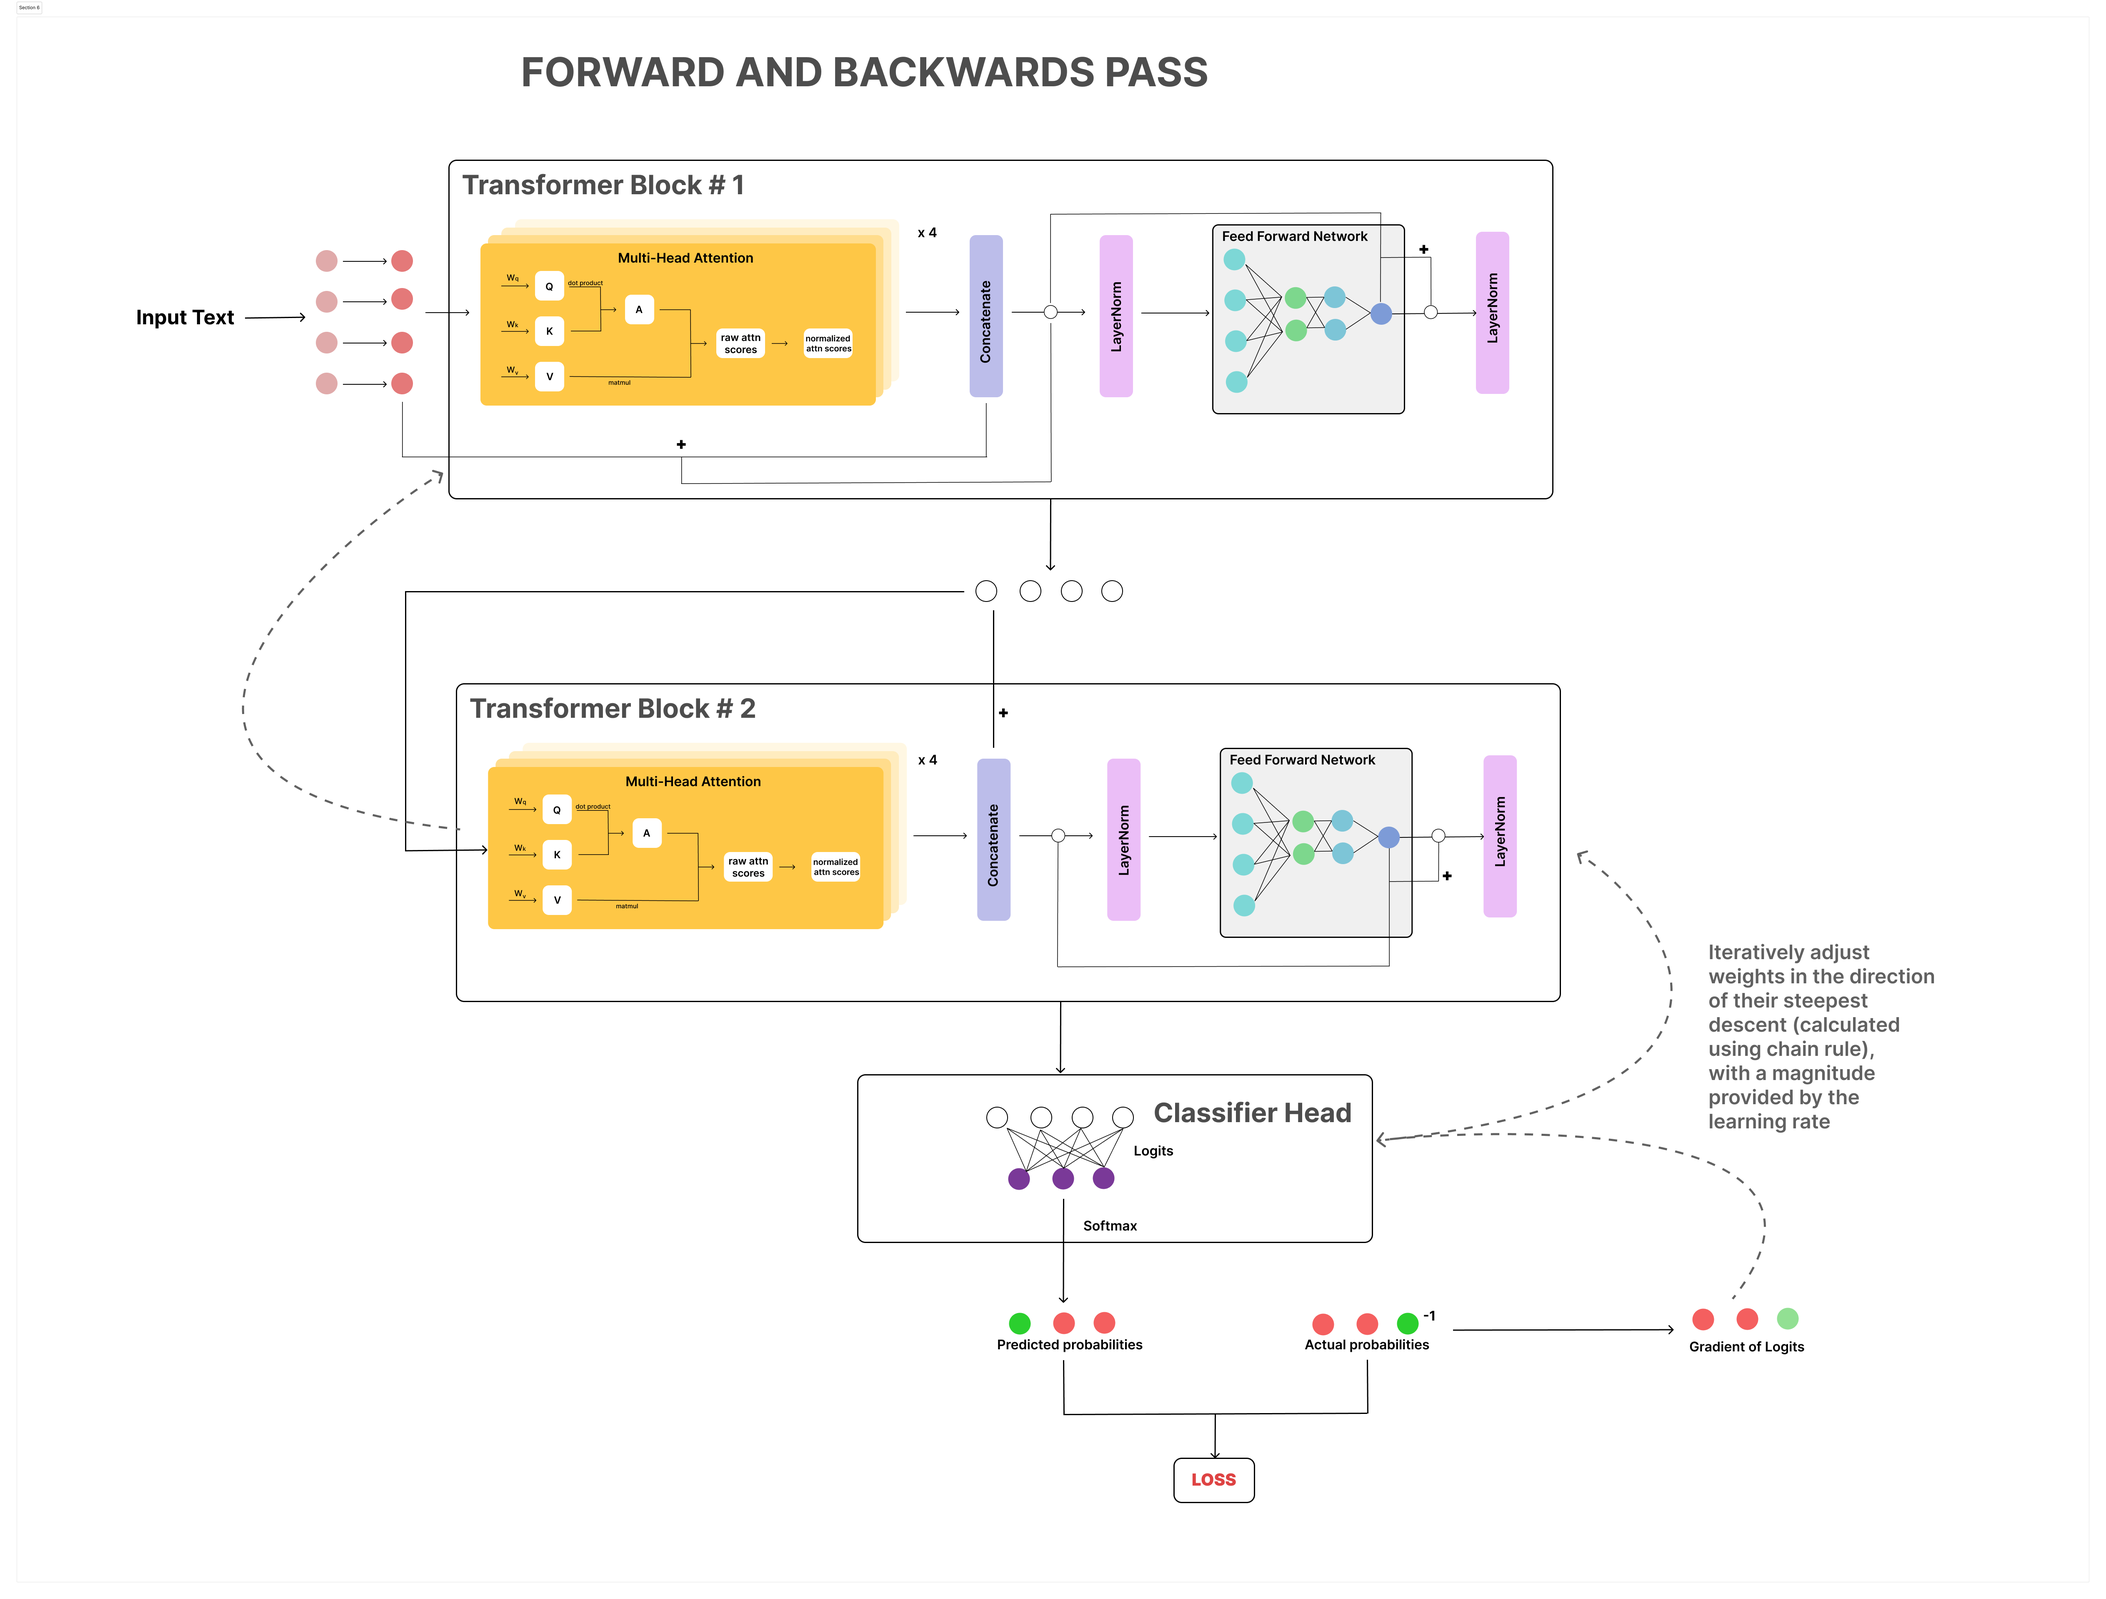
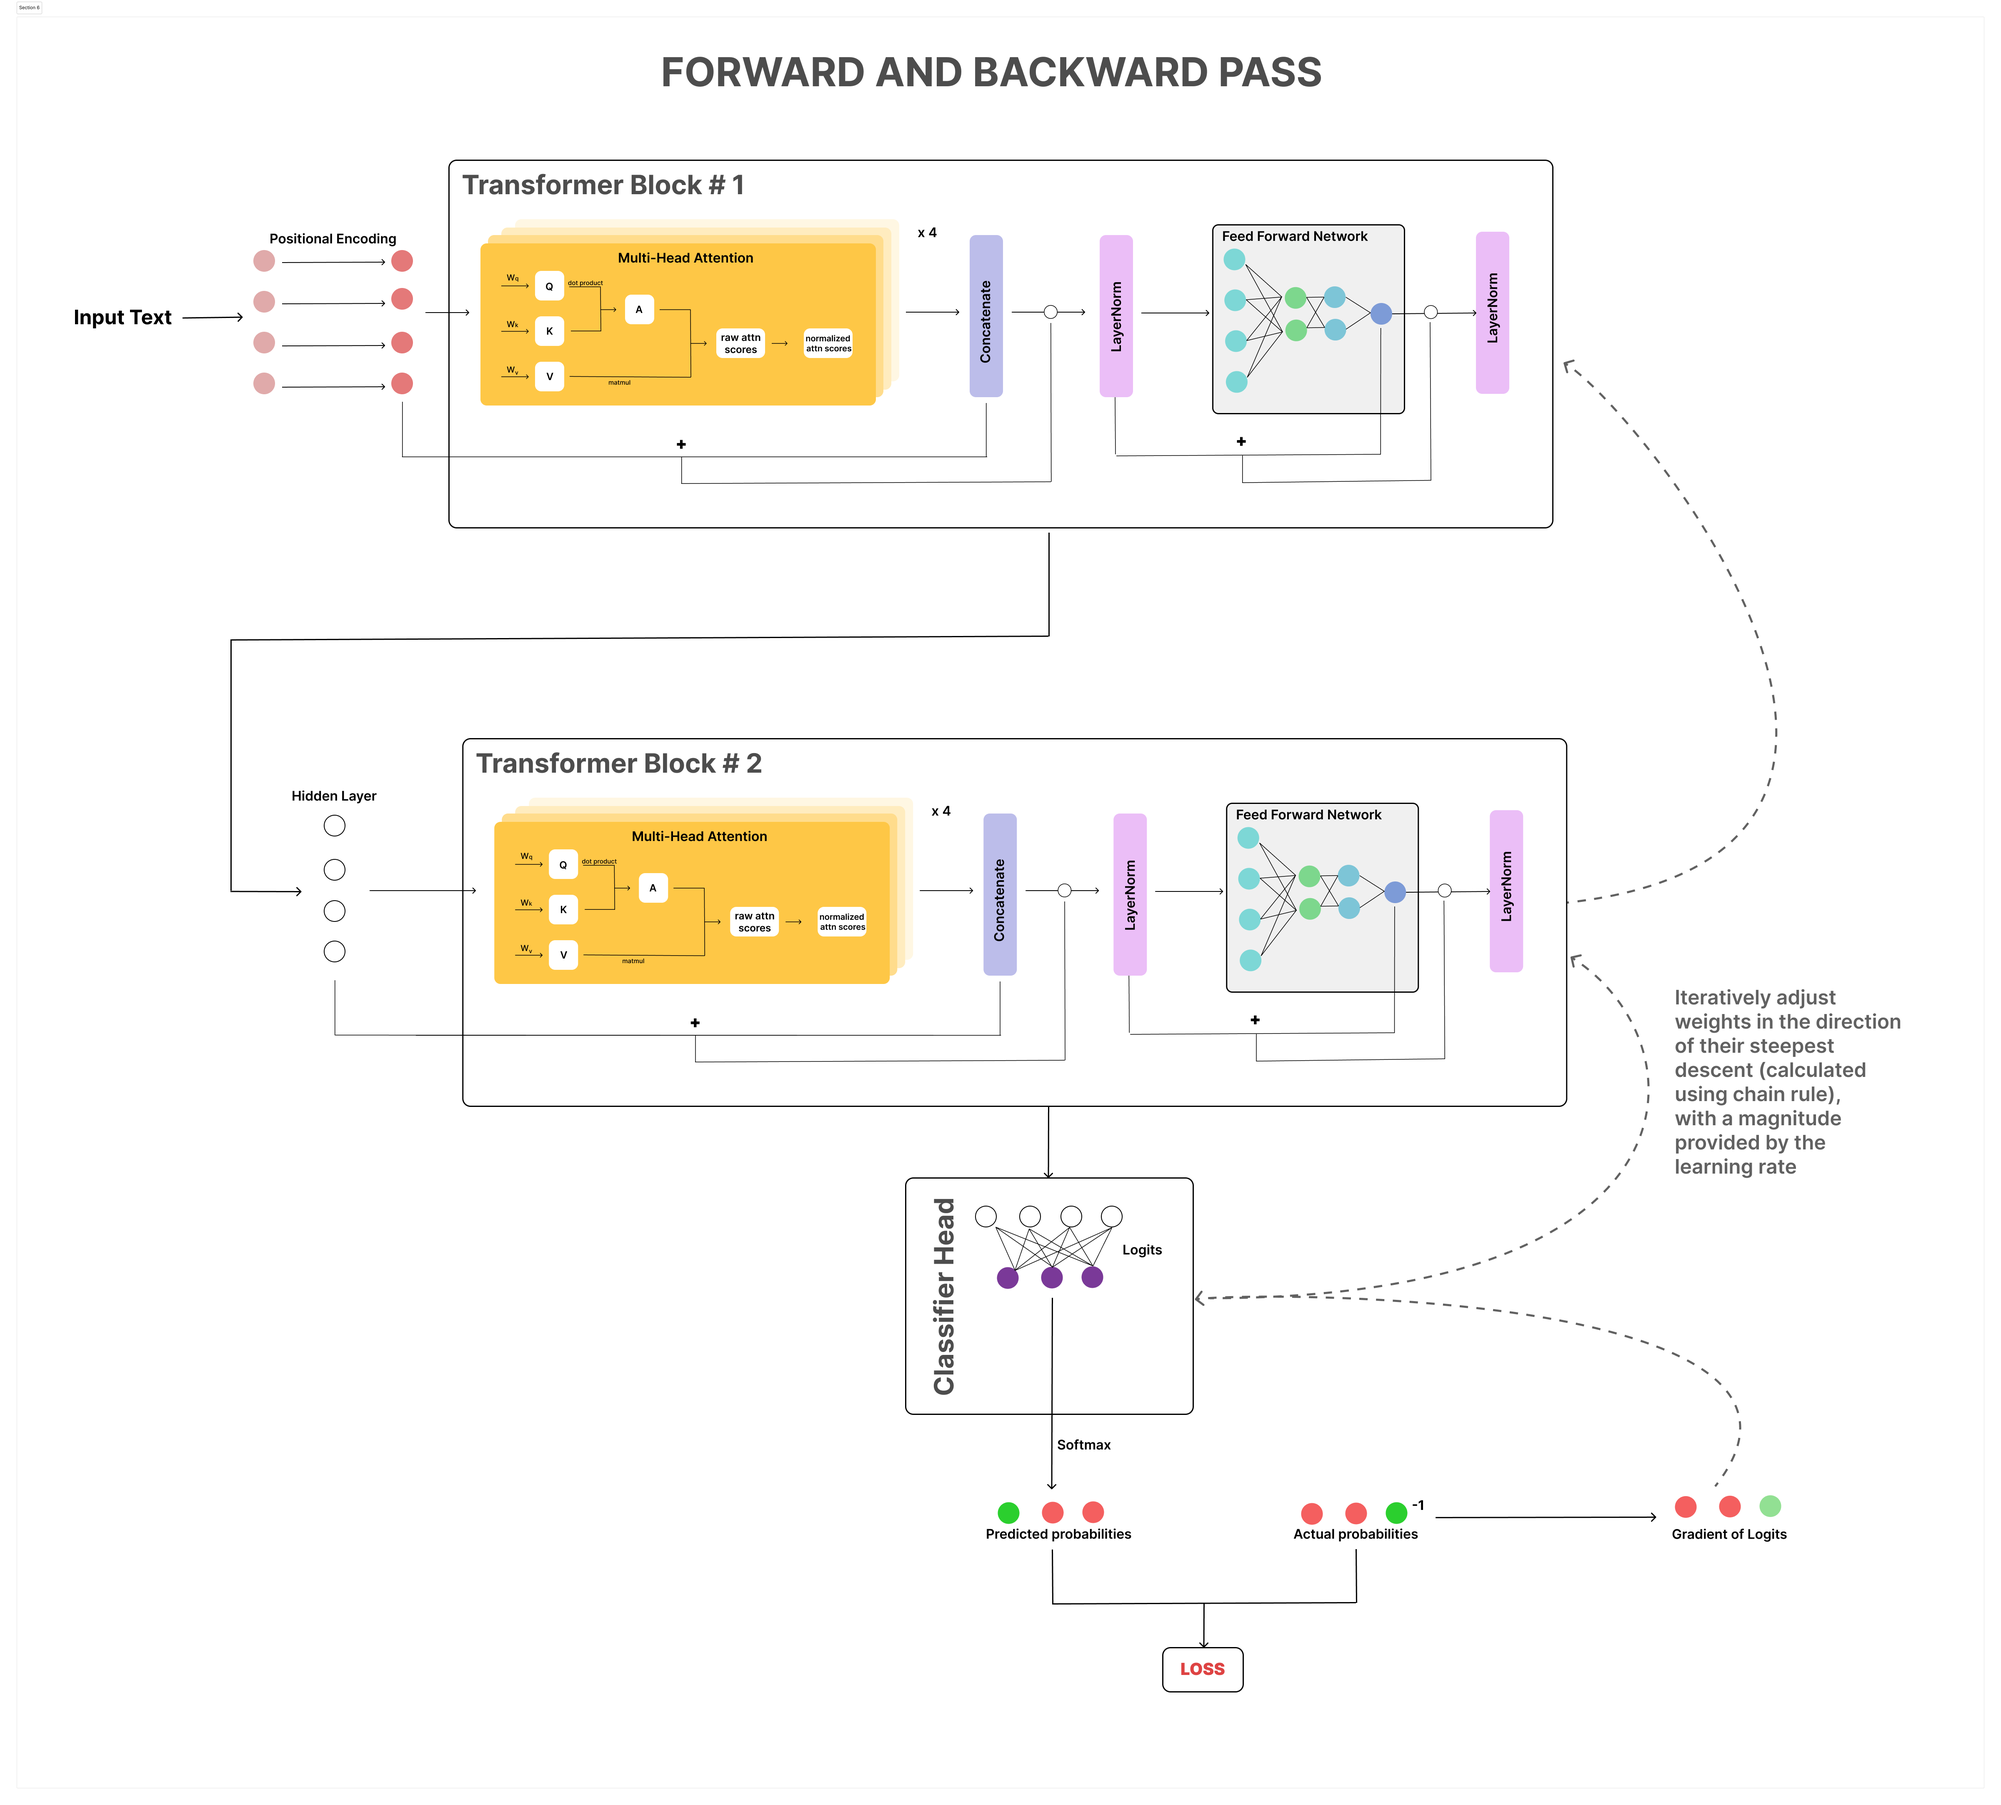
changed readme and diagrams

diff --git a/README.md b/README.md
@@ -1,9 +1,9 @@
 # sentiment-analyzer-from-scratch
 
 ## Description
-This is a simple sentiment analysis model made entirely from numPy, re, and NLTK alone. During development, pandas and matplotlib were also used. The model uses self-made embeddings, positional encodings, custom transformer architecture, and logits. It employs several concepts from calculus and linear algebra to perform the forward and backward passes. 
+This is a simple sentiment analysis model made almost entirely from numPy, with a little help from NLTK. During development and testing, pandas and matplotlib were also used. The model takes an inputted text and classifies it to one of three sentiments - negative, neutral, or positive.
 
-The model was trained on 417 entries of [this dataset](https://www.kaggle.com/datasets/nursyahrina/chat-sentiment-dataset) from KaggleHub. It takes a test and classifies it to one of three sentiments - negative, neutral, or positive.
+The model was trained on 417 entries of [this dataset](https://www.kaggle.com/datasets/nursyahrina/chat-sentiment-dataset) from KaggleHub. It uses jointly optimized embeddings and weights, positional encoding, custom transformer architecture, and logits. It employs several concepts from calculus and linear algebra to perform the forward and backward passes. 
 
 Given that this model was developed from scratch using limited samples, it is primitive and makes the best predictions from simple, straightforward sentences, similar to the ones you can see in the dataset.
 
